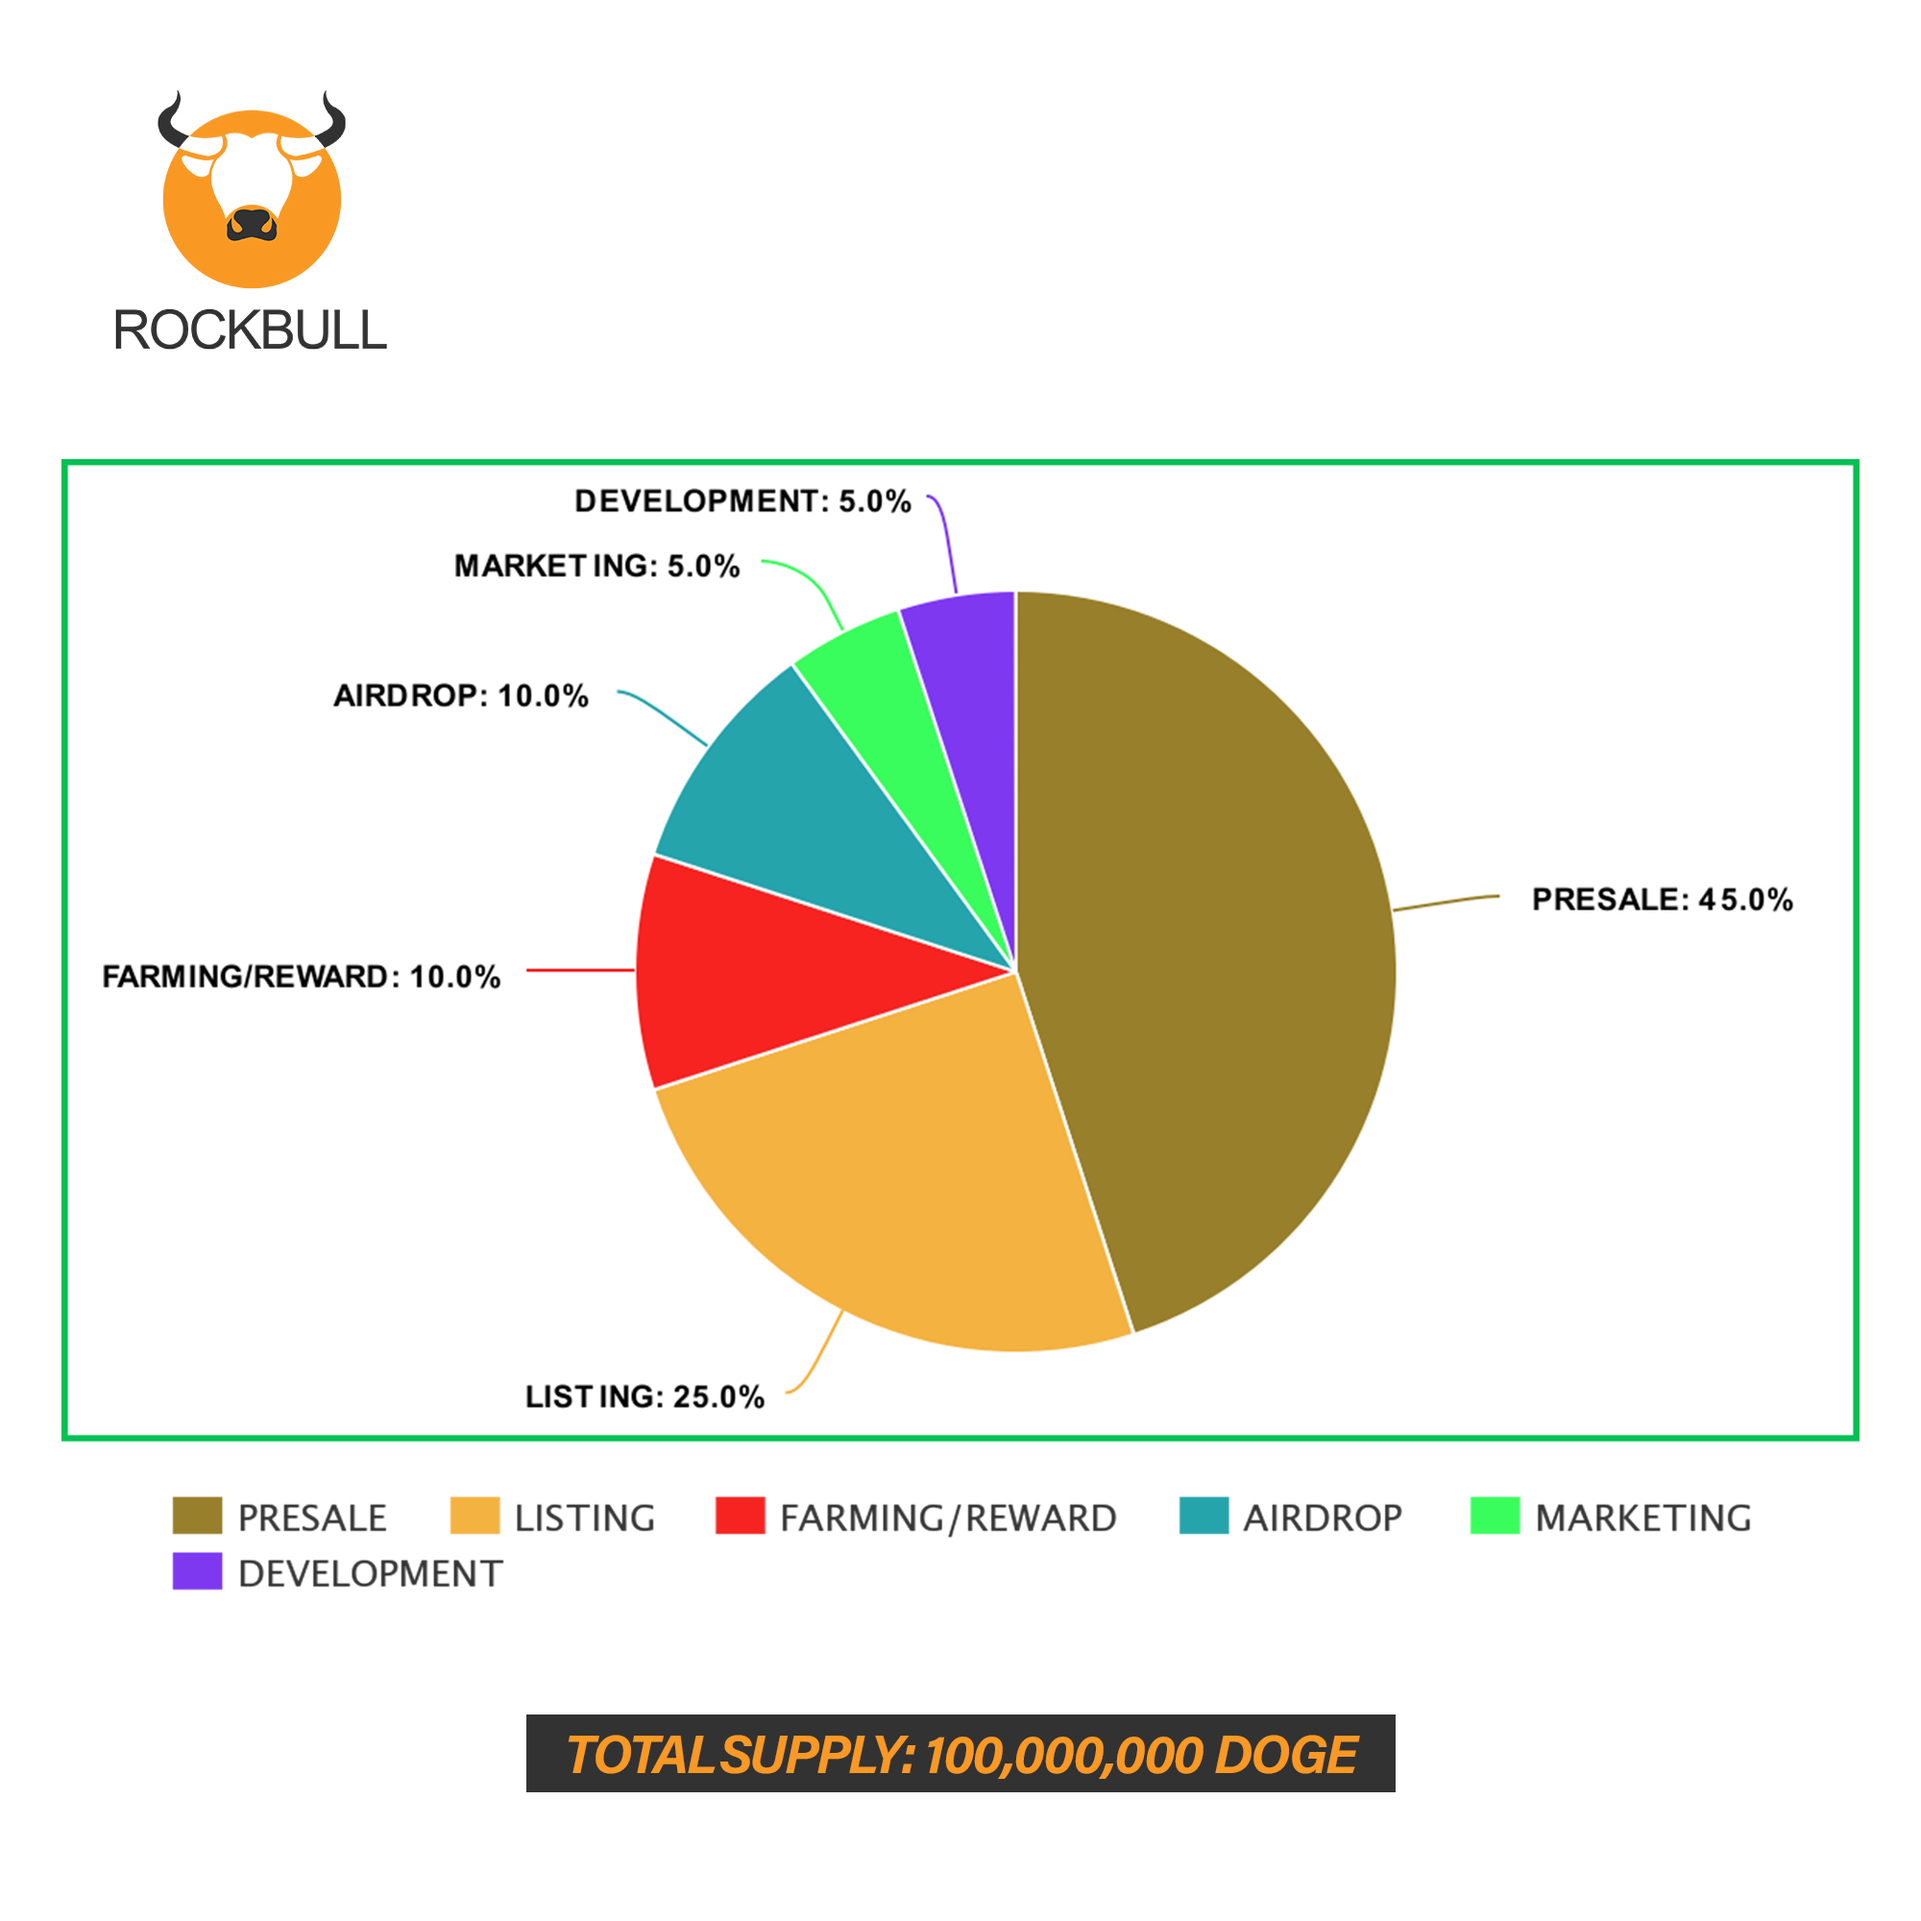
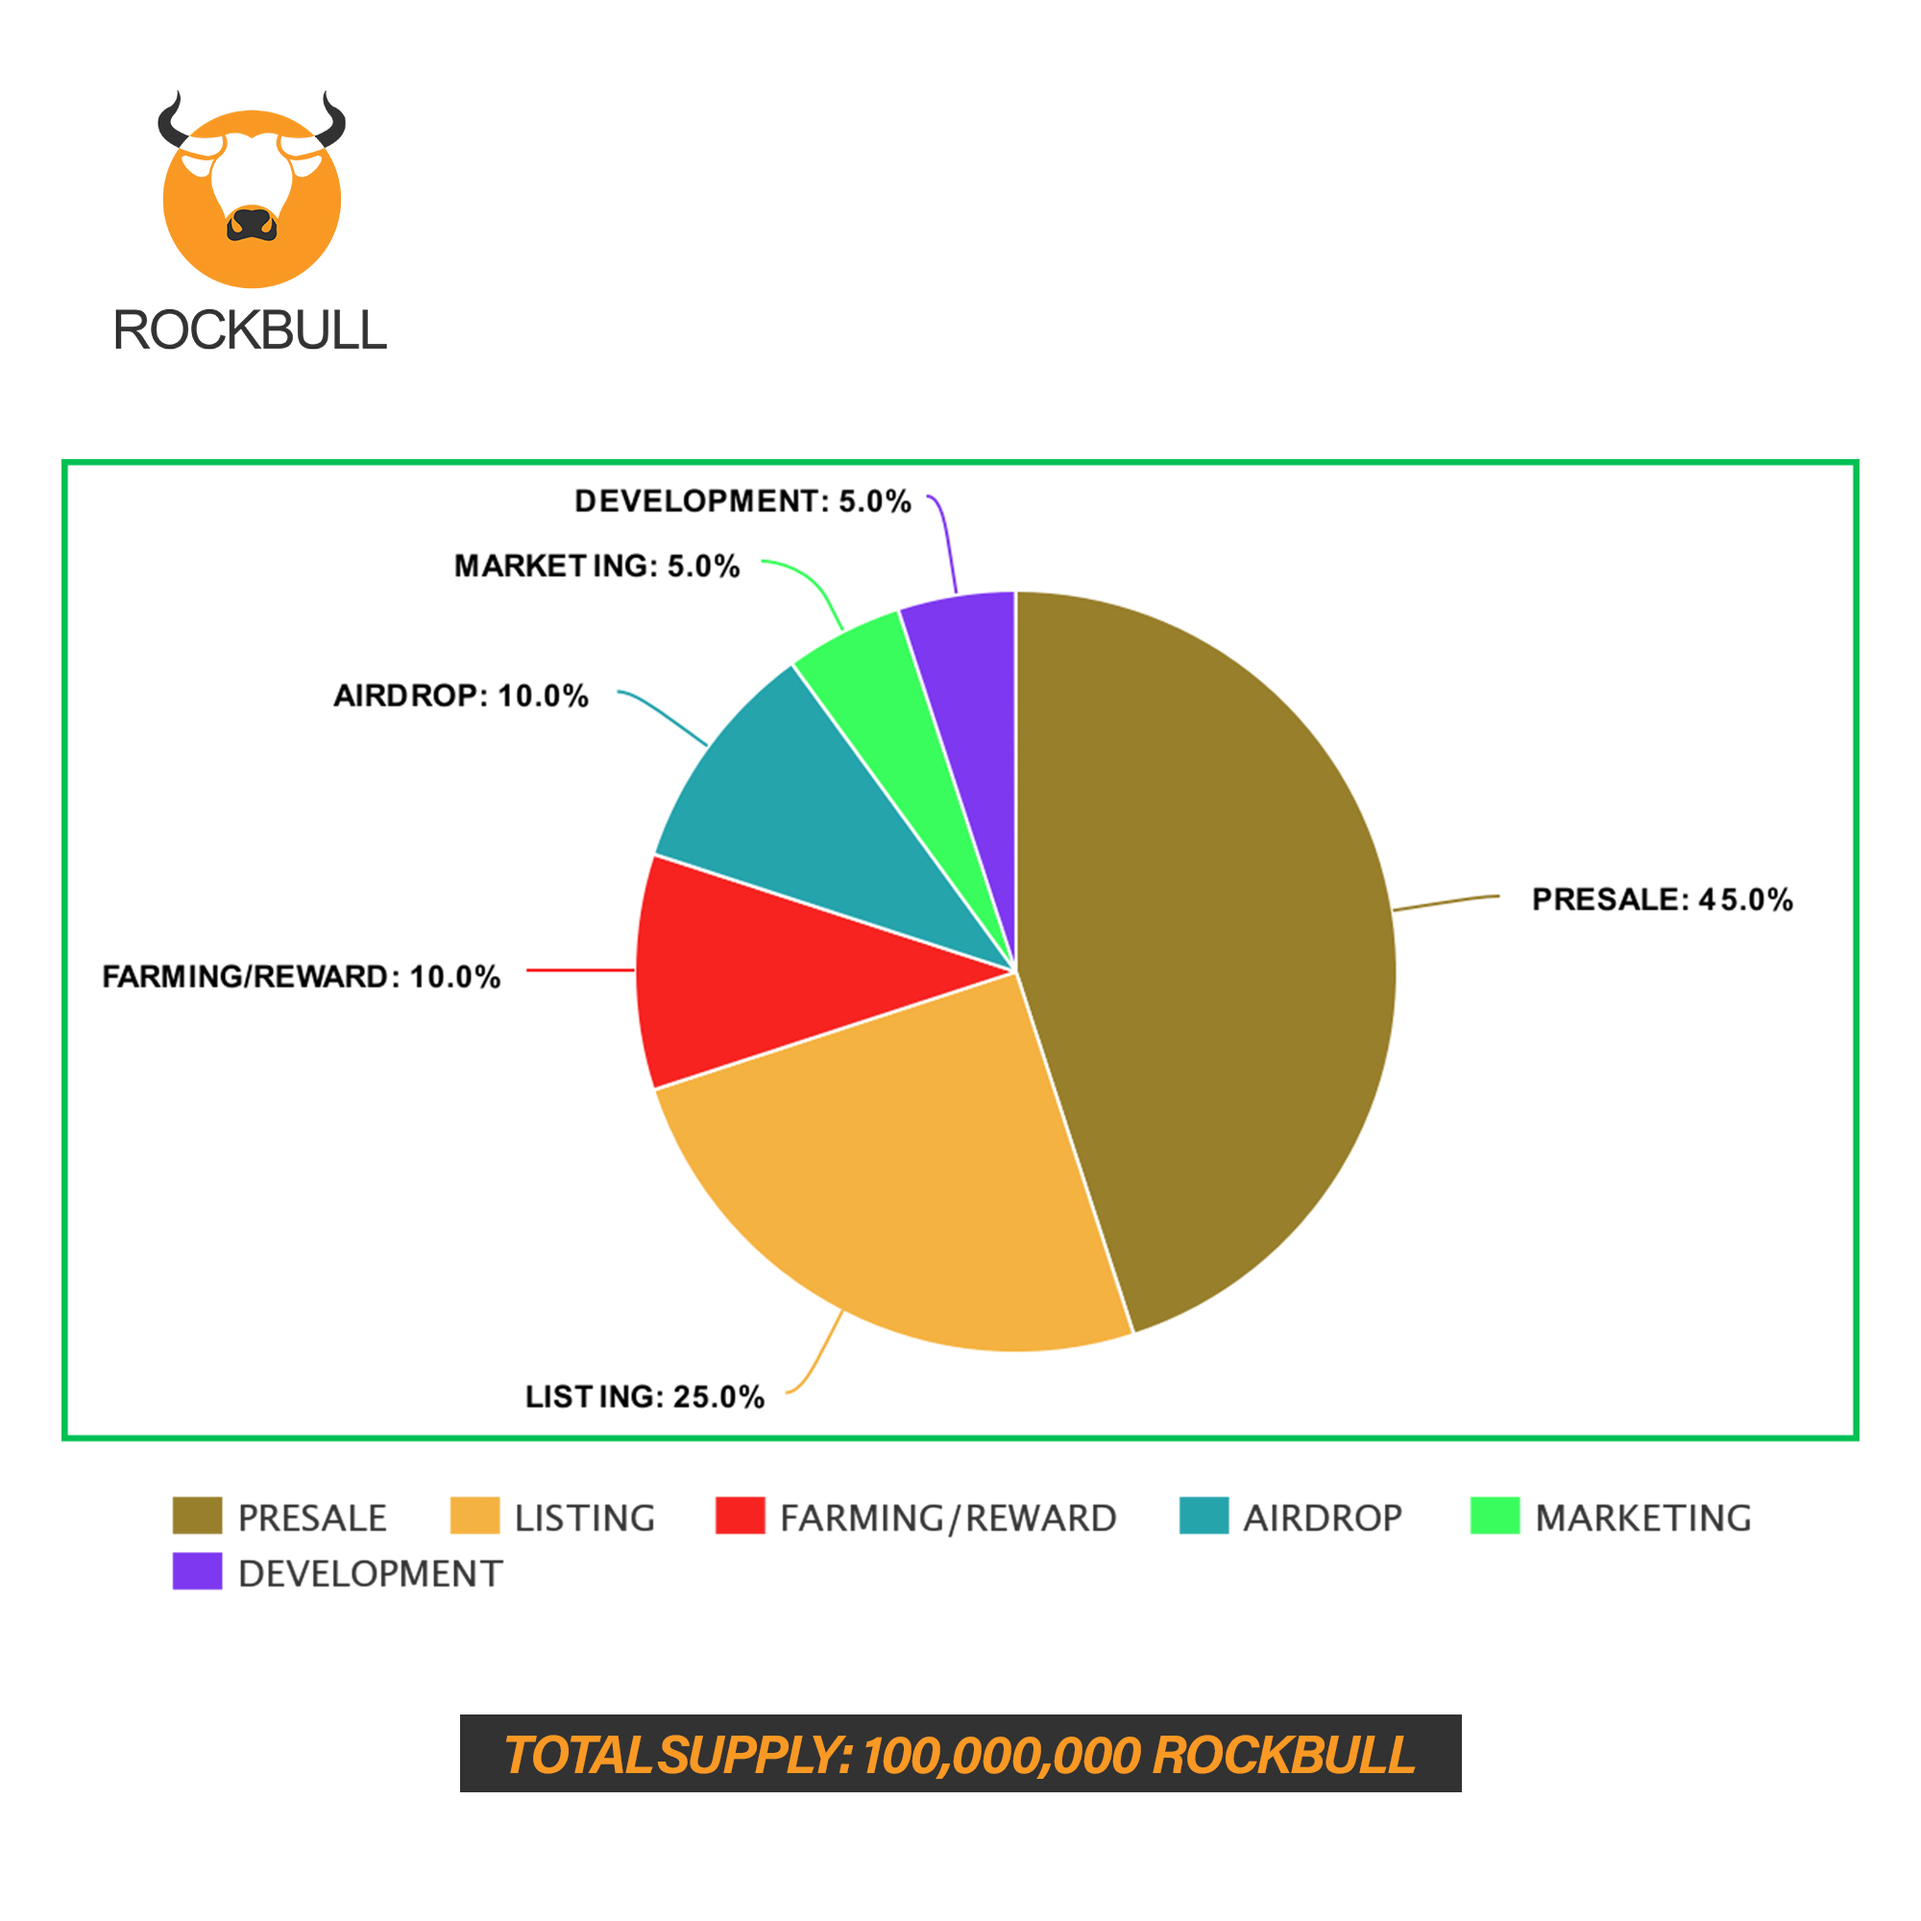
initial commit

Changed region(s): [[0.217, 0.868, 0.775, 0.93]]

diff --git a/index.html b/index.html
@@ -91,7 +91,7 @@ https://www.tooplate.com/view/2117-infinite-loop
             </div>
             
             <div class="row tm-content-box">
-            <div class="col-lg-1">
+        		<div class="col-lg-1">
                     <i class="far fa-3x fa-chart-bar text-center tm-icon"></i>
                 </div>
                 <div class="col-lg-5">
@@ -116,7 +116,7 @@ https://www.tooplate.com/view/2117-infinite-loop
             </div>
             
             <div class="row tm-content-box">
-            <div class="col-lg-1">
+        		<div class="col-lg-1">
                     <i class="fas fa-3x fa-fingerprint text-center tm-icon"></i>
                 </div>
                 <div class="col-lg-5">
@@ -160,13 +160,13 @@ https://www.tooplate.com/view/2117-infinite-loop
         <div class="row ">
             
             <div class="text-center col-12">
-                <h1>The World needs <span class="tm-hero-title">$RBI</span></h1>
+                <h1>The World needs <span class="tm-hero-title">$RKB</span></h1>
                 <p>
-                  $RBI has been launched. You can now buy on <a href="#" target="_blank"><b>PancakeSwap</b></a>.
+                  $RKB has been launched. You can now buy on <a href="#" target="_blank"><b>PancakeSwap</b></a>.
                 </p>
                 <p>More listings coming up.</p>
                 
-                <button type="button" class="btn tm-btn-submit"><a href="#" target="_blank">Buy $RBI</a></button>
+                <button type="button" class="btn tm-btn-submit"><a href="#" target="_blank">Buy $RKB</a></button>
             </div>
             
             
@@ -231,11 +231,11 @@ https://www.tooplate.com/view/2117-infinite-loop
             <img src="img/tokenomics.jpg" alt="Image 2" class="img-fluid">
       </div>
     </section>
-    <section id="roadmap">      
+    <!-- <section id="roadmap">      
       <div class="container">
             <img src="img/Roadmap.jpg" alt="Image 2" class="img-fluid">
       </div>
-    </section>
+    </section> -->
     
     <!-- <section id="gallery" class="tm-section-pad-top">
       <div class="container tm-container-gallery">
@@ -332,7 +332,7 @@ https://www.tooplate.com/view/2117-infinite-loop
             <div class="text-center col-12">
                 <h2 class="tm-section-title mb-4">Community</h2>
                 <p class="mb-5">
-                  Our community grows stronger every day. Please follow our social platforms to get the most up-to-date, accurate $RBI information.
+                  Our community grows stronger every day. Please follow our social platforms to get the most up-to-date, accurate $RKB information.
                 </p><br>
             </div>
             
@@ -375,7 +375,7 @@ https://www.tooplate.com/view/2117-infinite-loop
         
       </div>
 
-        <footer class="text-center small tm-footer">
+      	<footer class="text-center small tm-footer">
           <p class="mb-0">
           Copyright &copy; 2021 Rockbull Inu</p>
         </footer>
@@ -388,7 +388,7 @@ https://www.tooplate.com/view/2117-infinite-loop
     <script src="js/easing.min.js"></script>
     <script src="js/jquery.singlePageNav.min.js"></script>     
     <script src="js/bootstrap.min.js"></script> 
-    <!--<script>
+    <script>
 
       function getOffSet(){
         var _offset = 450;
@@ -572,6 +572,6 @@ https://www.tooplate.com/view/2117-infinite-loop
         ]
         });
       });
-    </script> -->
+    </script>
   </body>
 </html>
